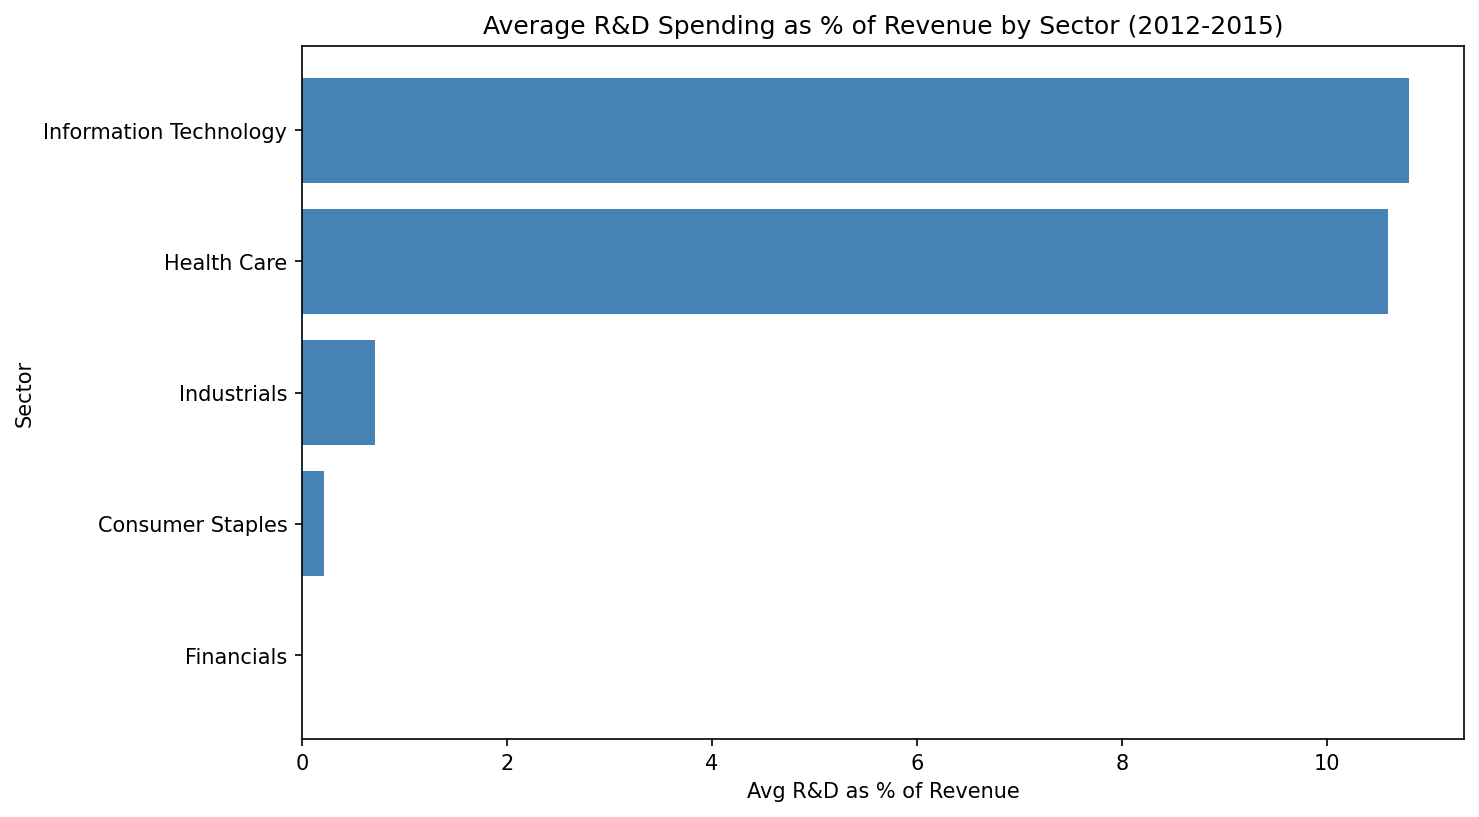
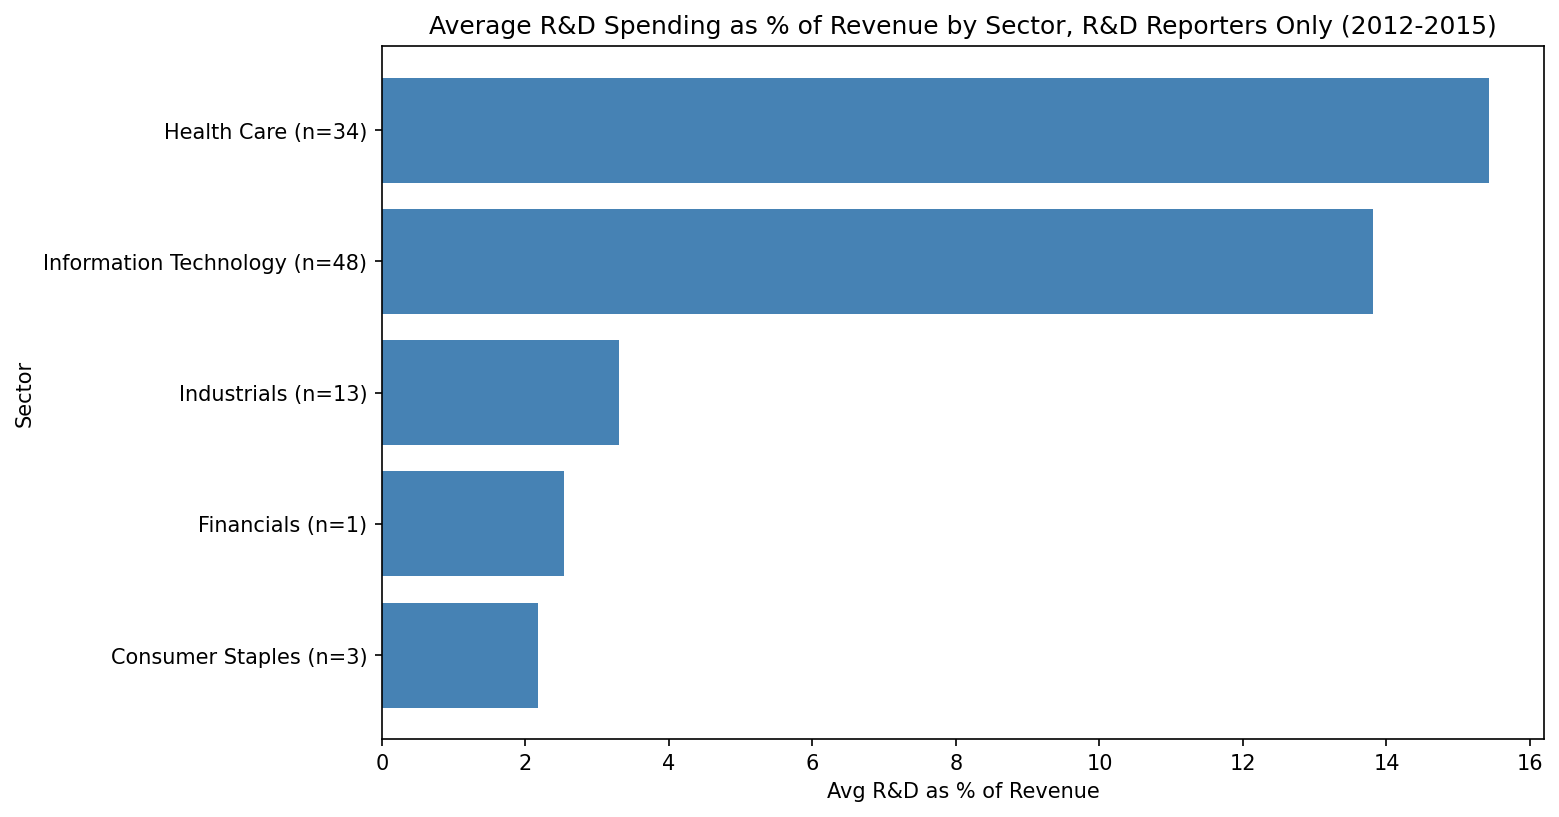
Update findings and outputs after the data and query fixes

diff --git a/README.md b/README.md
@@ -1,6 +1,6 @@
 # S&P 500 R&D Spending Analysis
 
-Explores whether R&D investment correlates with financial performance across 251 S&P 500 companies from 2012 to 2015, using SEC 10-K filing data across five sectors.
+Explores whether R&D investment correlates with financial performance across 256 S&P 500 companies from 2012 to 2015, using SEC 10-K filing data across five sectors.
 
 ## Tech Stack
 
@@ -36,7 +36,7 @@ Requires Python 3 and a local MySQL 8 server.
 ## Key Features
 
 - Normalized MySQL schema across four tables: sectors, companies, financials, and R&D spending
-- ETL pipeline that cleans and loads 251 companies across 5 sectors and 4 years of filings
+- ETL pipeline that cleans and loads 256 companies across 5 sectors and 4 years of filings
 - R&D intensity classifications assigned per sector based on typical reporting behavior
 - Revenue-based market cap tier derivation (Large, Mid, Small) used as a size proxy
 - Eight analytical SQL queries covering sector trends, company rankings, and R&D vs. growth comparisons
@@ -45,13 +45,13 @@ Requires Python 3 and a local MySQL 8 server.
 
 ## Key Findings
 
-- IT and Healthcare both spent around 10-11% of revenue on R&D. Every other sector was under 1%. Financials reported essentially zero.
-- IT total R&D grew from $70B to $81B between 2013 and 2015. Healthcare went from $46B to $54B. Industrials pulled back slightly in 2015.
+- Among companies that report R&D, Health Care spent 15.4% of revenue on it and IT spent 13.8%. Industrials (3.3%) and Consumer Staples (2.2%) were far lower, and most companies in those sectors and in Financials (13 of 62, 3 of 31, and 1 of 53) do not report R&D separately at all.
+- IT total R&D grew from $70B to $86B between 2013 and 2015. Healthcare went from $46B to $55B. Industrials pulled back slightly in 2015.
 - Spending more on R&D doesn't guarantee better margins. Companies at 10%+ R&D intensity showed wide margin variance, with many right around breakeven.
-- Low R&D companies grew revenue faster on average (16% vs 13% from 2012 to 2015), though that's likely a sector composition effect rather than a real tradeoff.
-- R&D intensity had no positive link to 2012-2015 revenue growth across the 118 companies with data for both years (Pearson r = -0.12, p = 0.19). Dropping Vertex alone moves that to -0.02.
-- Health Care was the one sector with a significant relationship, and it was negative (Spearman rho = -0.51, p = 0.009). Big pharma (Pfizer, Merck, Lilly, Bristol-Myers) spent 15-27% of revenue on R&D while sales shrank through the patent cliff, while zero-R&D service companies like Centene and DaVita were among the fastest growers.
-- The IT and Industrials correlations look negative at first but drop to roughly zero once companies that don't report R&D are excluded, so they reflect business model differences more than R&D itself.
+- Low R&D companies grew revenue faster on average (15% vs 14% from 2012 to 2015), though that's likely a sector composition effect rather than a real tradeoff.
+- R&D intensity had no positive link to 2012-2015 revenue growth across the 123 companies with data for both years (Pearson r = -0.11, p = 0.23). Dropping Vertex alone moves that to roughly zero (-0.003).
+- Health Care was the one sector with a significant relationship, and it was negative (Spearman rho = -0.49, p = 0.011). Big pharma (Pfizer, Merck, Lilly, Bristol-Myers) spent 15-27% of revenue on R&D while sales shrank through the patent cliff, while zero-R&D service companies like Centene and DaVita were among the fastest growers.
+- The IT and Industrials correlations look negative at first but drop to roughly zero once companies that don't report R&D are excluded (Pearson r goes from -0.40 to -0.04 for IT and from -0.16 to -0.01 for Industrials), so they reflect business model differences more than R&D itself.
 - Vertex Pharmaceuticals had the highest R&D intensity at 91.7% of revenue with a -56% net margin. They're a pre-profitability biotech, so that's expected behavior, not a data problem.
 
 ## What I Learned
